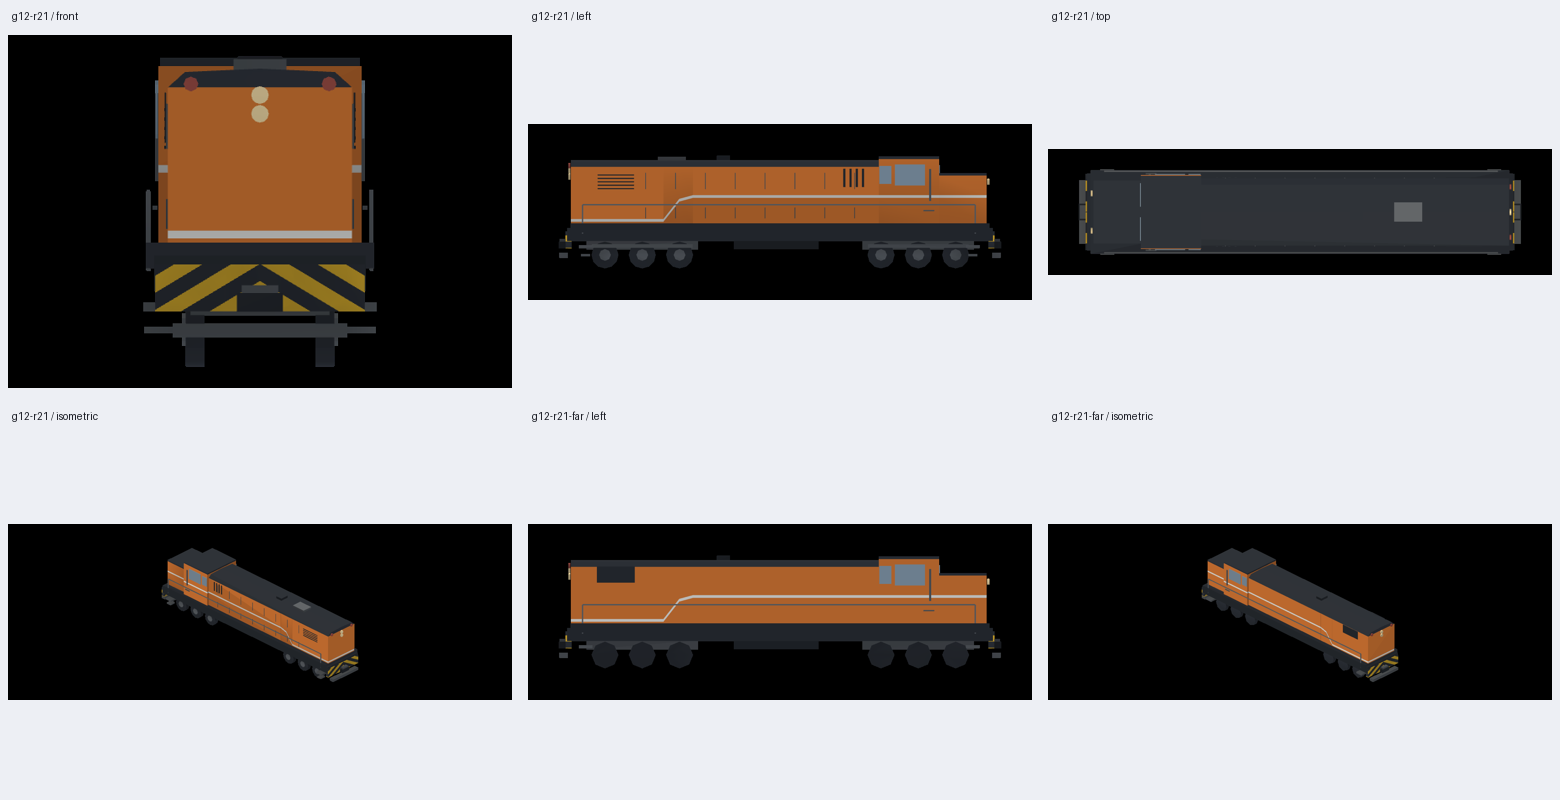
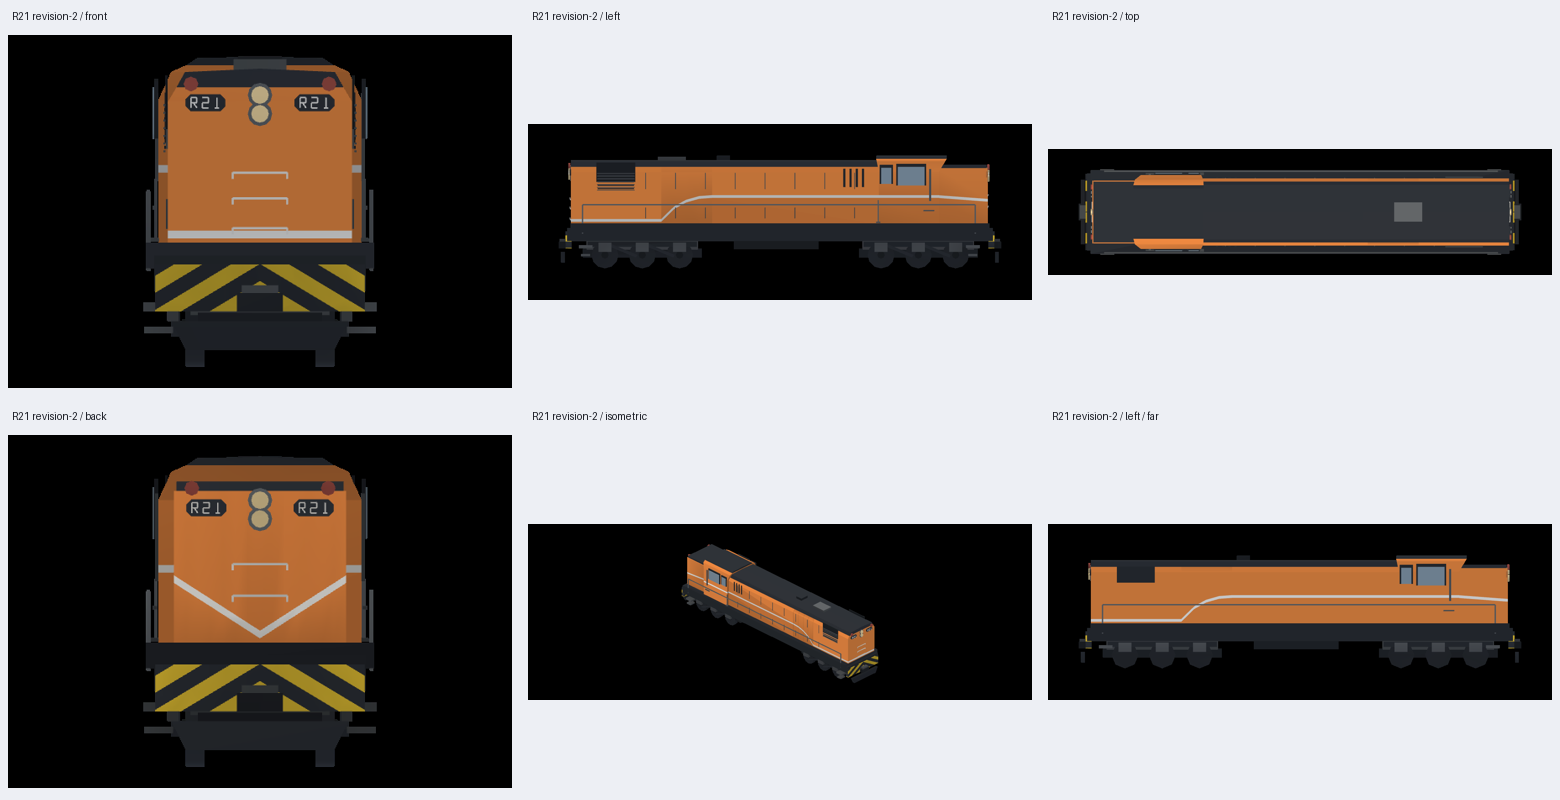
Document corrected R21 revision two and source photos
Agent: Codex

diff --git a/docs/art/g12-2026-10-29/README.md b/docs/art/g12-2026-10-29/README.md
@@ -1,6 +1,6 @@
 # G12 / 臺鐵 R21 靜態研究
 
-本輪選 **1960 年首批 R21–R24 中的 R21，約 2007–2010 年橘色塗裝**。原廠形式 EMD G12，臺鐵正式型式 R20 型；1966 年 R51–R72 雖亦稱 G12，但機件有差異，不拿來混合。R21 於 1960-04-03 到臺，製造商 GM-EMD。車長 14.226 m、寬 2.787 m、高 3.665 m、軌距 1.067 m、A1A-A1A 是維基條目所列次級規格，尚未取得工程原圖核實；台車中心、軸距、輪徑、窗與設備位置都是觀照估算，不能當工程尺寸。型式與批次參考：https://zh.wikipedia.org/wiki/台鐵R20型柴電機車 （2026-10-29 查閱；條目標註來源不足）。
+本輪選 **1960 年首批 R21–R24 中的 R21，照片所見橘色塗裝（以 2014、2018 年照片核對）**。原廠形式 EMD G12，臺鐵正式型式 R20 型；1966 年 R51–R72 雖亦稱 G12，但機件有差異，不拿來混合。R21 於 1960-04-03 到臺，製造商 GM-EMD。車長 14.226 m、寬 2.787 m、高 3.665 m、軌距 1.067 m、A1A-A1A 是維基條目所列次級規格，尚未取得工程原圖核實；台車中心、軸距、輪徑、窗與設備位置都是觀照估算，不能當工程尺寸。型式與批次參考：https://zh.wikipedia.org/wiki/台鐵R20型柴電機車 （2026-10-29 查閱；條目標註來源不足）。
 
 ## 原圖核對與授權
 
@@ -11,8 +11,11 @@
[2 lines of base64/hex data omitted]
 | [R20 2007](https://commons.wikimedia.org/wiki/File:TRA_R20_02.JPG) | Josephjong／2007-03-11／Public domain | `13e9736547a6a3359726b292ef0cf3ee3ccfd07530d` | 同型機車罩側門、格柵、燃油箱；非 R21，僅輔證 |
[3 lines of base64/hex data omitted]
 
-下載原檔網址分別是 `https://upload.wikimedia.org/wikipedia/commons/f/f2/TRA_R21_Diesel_locomotive_at_Changhua_Station.jpg`、`https://upload.wikimedia.org/wikipedia/commons/4/47/TRA_R21_Diesel_locomotive_in_Hsinchu_Station.jpg`、`https://upload.wikimedia.org/wikipedia/commons/0/08/TRA_R20_02.JPG`。只發布本人的原生幾何與渲染；不包含照片像素、真商標或照片貼圖。
+原檔下載網址：`https://upload.wikimedia.org/wikipedia/commons/f/f2/TRA_R21_Diesel_locomotive_at_Changhua_Station.jpg`、`https://upload.wikimedia.org/wikipedia/commons/4/47/TRA_R21_Diesel_locomotive_in_Hsinchu_Station.jpg`、`https://upload.wikimedia.org/wikipedia/commons/0/08/TRA_R20_02.JPG`、`https://upload.wikimedia.org/wikipedia/commons/9/97/TRA_R21_20141018.jpg`、`https://upload.wikimedia.org/wikipedia/commons/6/6d/TRA_R21_Diesel_locomotives_2018-0814.jpg`、`https://upload.wikimedia.org/wikipedia/commons/f/fb/TRA_R21_at_Changhua_Roundhouse.jpg`。只發布本人的原生幾何與渲染；不包含照片像素、真商標或照片貼圖。
 
 已檢查 owner 參考庫 `Railway/taiwan-rail-reference-clean/source/rail-3d/assets/garage-blender-v1/r20.json`：其模型標 `engineeringDimensionsM:null`、長度 9.678 m，屬示意而非本輪 14.226 m 量尺；未複製它的網格或顏色。現有 SceneKit R20 也不是本輪可替換的正式 R21 配方。
 
@@ -21,23 +24,25 @@
 | 部位 | 原圖觀察／模型 | 判定 |
 | --- | --- | --- |
 | 輪廓與朝向 | 長罩朝模型 +X，駕駛室與短罩在 -X；約中後方較高駕駛室 | 符合主要剪影 |
-| 前後端燈 | 長罩端高處兩側標示燈、中央縱列雙燈；短罩端分開建模 | 長端符合；短端燈細節資料不足 |
+| 前後端燈 | 長／短罩端照片各支持高處兩側標示燈、中央縱列雙燈；端面輪廓按不同高度分開建模 | revision-2 修正短端後符合主要相對位置 |
 | 駕駛室窗 | 側窗與短罩前方風擋可見 | 形狀簡化 |
 | 側面格柵、散熱 | 駕駛室前小格柵與長端大型散熱區、側門分件 | 大格柵位置近似；反側資料不足 |
 | 屋頂與排煙 | 深灰連續罩頂、排煙凸件 | 位置推估；俯視原圖不足 |
 | 台車與燃油箱 | 兩台三軸 A1A，中央油箱、軸箱／側梁 | 六輪與位置近似；輪徑與軸距推估 |
 | 踏板、扶手、連結器 | 兩端皆有端平台、扶手、踏板及連結器 | 已做；管路細節簡化 |
-| 橘白塗裝 | 白帶在長罩側面下降到端面下緣，殼面相接 | 幾何分色；曲率與門板細節仍近似 |
+| 橘白塗裝 | 長罩側帶下降到端面下緣；短罩側帶接到短端兩側，再在結構端板形成 V | revision-1 的短端水平帶已撤回；revision-2 幾何分色連續，門板曲率仍近似 |
 
 這是靜態 studies 的原生霧面頂點色近／遠景配方。`Map3DModelPack.standard`、SceneKit R20 `05_TRA_classic_3x2-05`、莒光 `R100CK`／`R200CK` 等營運映射完全不變；合併後玩家不會在營運列車看到這版。無商標、無照片貼圖。
 
-最終輸出近景 3,692 三角、遠景 1,648 三角（44.6%），兩者原生邊界皆 `[-7.11, 7.11] × [-1.37, 1.37] × [0, 3.63] m`，仍把條目尺寸視為次級資料。固定相機和遊戲模型光的七向日夜圖、GLB、原生模型、可旋轉／縮放／下載的 inspector 在私庫 `game-art-previews/docs/art/g12/revision-1/`。公開總覽僅 [overview.png](overview.png)。照片並排圖只存工作區 `/workspace/scratch/g12-private-comparison.jpg`，因原圖沒有在公開庫再散布；原圖透視不等於固定正交相機。正、側、俯、斜並排的結論：主要輪廓和燈上下關係相符；正面缺車號牌、側面門鎖／管線簡化，台車外形較平，俯視設備位置缺可靠照片而不能確認。不能把「看過並列」寫成使用者接受。
+使用者明確否定 revision-1 producer `b073c6c600bae8280cda31695aa28b0b413ee10f` 的外觀（「很醜再修一下」），故撤回前版任何「外觀已符合」暗示。revision-2 重修駕駛室斜肩、罩頂、窗框、端面號碼牌／雙燈／抓手、台車側架與油箱暗部；補讀 2014 年短端原圖後，撤回錯置的左右雙燈，改中央上下雙燈，短罩側帶接到結構端板的白色 V。長罩端仍按其照片保留端面水平白帶。幾何車號是原創筆劃，沒有真商標或照片字體。
 
-Producer `b073c6c600bae8280cda31695aa28b0b413ee10f`。在獨立 `/workspace/g12-rebuild` checkout 執行 `tools/train-models/run.sh OUT --ids g12-r21,g12-r21-far` 與 `node tools/train-models/package.mjs OUT`，四個成品（兩個 `.m3dmodel`、兩個 `.glb`）逐 bytes 等於首次匯出；SHA 詳見私庫 `manifest.json`。共用 `check.mjs`、`audit.mjs` 及 `g12-verify.mjs` 通過；六個輪位貼軌、長端燈高、玻璃外露、兩端連結器與四個位移故障反例已驗。Blender 4.3.2 獨立匯入近遠兩 GLB，分別 3,692／1,648 三角；56 張本地 PNG 完整解碼。Swift 6.4 `warnings-as-errors` 建置與 `Map3DModelTests` 8/8 通過。最終交付 viewer 本機 loopback 載入、旋轉、縮放、native／GLB／PNG 下載 byte 驗證通過；`file://` 因本機瀏覽器管理設定擋下，**UNVERIFIED**。這些檢查不等於 Metal 或動態碰撞。
+最終輸出近景 6,016 三角、遠景 2,576 三角（42.8%），兩者原生邊界皆 `[-7.11, 7.11] × [-1.37, 1.37] × [0, 3.63] m`，仍把條目尺寸視為次級資料。固定相機和遊戲模型光的七向日夜圖、GLB、原生模型、可旋轉／縮放／下載的 inspector 在私庫 `game-art-previews/docs/art/g12/revision-2/`。revision-1 僅留 PNG、README、來源紀錄以供真前版追溯；重檔由 git commit 與 producer 重建。公開總覽僅 [overview.png](overview.png)。照片並排圖只存工作區 `/workspace/scratch/g12-r2-final-private-comparison.jpg`，原圖沒有在公開庫再散布；照片透視不等於固定正交相機。正、側、俯、斜並排結果：長／短端中央雙燈的上下與兩側號碼牌關係、短端白 V、長罩色帶下彎及主輪廓更接近原圖；大型散熱網、轉向架外形和門鎖／管線仍簡化，俯視屋頂設備缺足夠可靠照片而不能確認。
+
+Producer `69de18da3a8864b94e3bdc8f85d30b12c630a92c`（真前版 `b073c6c600bae8280cda31695aa28b0b413ee10f`）。在獨立 `/workspace/g12-rebuild` checkout 執行 `tools/train-models/run.sh OUT --ids g12-r21,g12-r21-far` 與 `node tools/train-models/package.mjs OUT`，四個成品（兩個 `.m3dmodel`、兩個 `.glb`）逐 bytes 等於交付前匯出；SHA 詳見私庫 `manifest.json`。共用 `check.mjs`、`audit.mjs` 及 `g12-verify.mjs` 通過；六個輪位貼軌、兩端燈高、玻璃外露、兩端連結器、短端白 V 與五個位移故障反例已驗。Blender 4.3.2 獨立匯入近遠兩 GLB，分別 6,016／2,576 三角；56 張本地 PNG 完整解碼。Swift 6.4 `warnings-as-errors` 建置與相關測試另見本輪 PR 檢查。最終 viewer 本機 loopback 載入、旋轉、縮放、native／GLB／PNG 下載 byte 驗證通過；`file://` 因本機瀏覽器管理設定擋下，**UNVERIFIED**。這些檢查不等於 Metal 或動態碰撞。
 
 ## 狀態
 
-- 素材技術：**VERIFIED**，限上述原生／GLB／渲染／viewer 技術驗收；`file://` 及更完整的工程量測未驗，見私庫 revision-1 的 `status.json`。
-- 此 producer 使用者外觀接受：**UNVERIFIED**。本輪無使用者對成品的明確接受。
+- 素材技術：**VERIFIED**，限上述原生／GLB／渲染／viewer 技術驗收；`file://` 及更完整的工程量測未驗，見私庫 revision-2 的 `status.json`。
+- 此 producer 使用者外觀接受：**UNVERIFIED**。revision-1 已被否定；revision-2 尚無使用者明確接受。
 - 營運接入：**UNVERIFIED**，僅 studies。
 - 裝置：**UNVERIFIED**，無 iOS Metal／Simulator／真機驗證。

diff --git a/docs/HANDOFF.md b/docs/HANDOFF.md
@@ -14,7 +14,7 @@
 
 # 交接
 
-> Codex G12／R21 原生 studies（公開 draft [#1485](https://github.com/a91453/railway-game-ios/pull/1485) ↔ 私庫 draft [#26](https://github.com/a91453/railway-assets-private/pull/26)，producer `b073c6c6`）：只用 1960 首批臺鐵 R20 型 EMD G12 的 R21 橘色時期；實車原圖來源、估算界線、外觀核對、重建與四種狀態見 [G12 交接](art/g12-2026-10-29/README.md)。公開只放配方、工具、來源與一張總覽，完整近遠景與 viewer 在私庫 `g12/revision-1/`。現有 SceneKit R20 與全部營運映射不變，合併後不會自動換車；使用者對此 producer 的外觀接受、營運接入、iOS Metal／真機均 **UNVERIFIED**。不合併／auto-merge／TestFlight。
+> Codex G12／R21 原生 studies（公開 draft [#1485](https://github.com/a91453/railway-game-ios/pull/1485) ↔ 私庫 draft [#26](https://github.com/a91453/railway-assets-private/pull/26)，producer `69de18da`（revision-1 `b073c6c6` 已遭使用者否定外觀））：只用 1960 首批臺鐵 R20 型 EMD G12 的 R21 橘色時期；實車原圖來源、估算界線、外觀核對、重建與四種狀態見 [G12 交接](art/g12-2026-10-29/README.md)。公開只放配方、工具、來源與一張總覽，完整近遠景與 viewer 在私庫 `g12/revision-2/`（revision-1 僅留 PNG／README／來源）。現有 SceneKit R20 與全部營運映射不變，合併後不會自動換車；使用者對此 producer 的外觀接受、營運接入、iOS Metal／真機均 **UNVERIFIED**。不合併／auto-merge／TestFlight。
 
 > Codex E1000雙端PP（#1294）：[來源／外觀／營運／重建](art/e1000-pp-2026-10-26/README.md)。獨立E1000近遠配方，以未合併PP #1291固定61c6969c為stacked base，私庫#87固定1f81f7c。只換pushPull機車，PP客車/E500/EMU與其他服務payload保護；兩端E1000、後機180°、後端貫通道相接。官方規格16.5/17.211m、寬2.885/車高3.904m；輪徑與軸距推估。完整包私有、公開一張總覽。兩PR皆合併並重建才改App，靜態展示不代表推拉控制/真機/動畫。CI看本輪同head，不合併/auto-merge/TestFlight。
 
